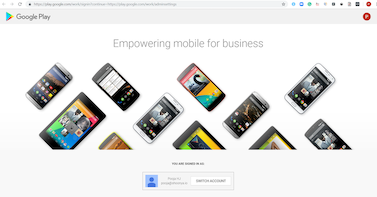
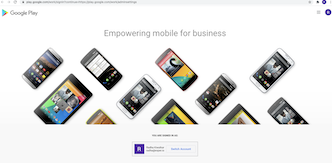
Changed images

diff --git a/docs/apps/unsubscribe.md b/docs/apps/unsubscribe.md
@@ -10,7 +10,7 @@ Step 1: Go to  [the Google Play Admin Settings page](https://play.google.com/wor
 Step 2: Select your account or give login credentials.
 
   
-![FAQ](./images/unsubscribe/image463.png)
+![FAQ](./images/unsubscribe/2-account.png)
 
 Step 3: Under Settings, you will see the Organization information section. Click on the vertical ellipsis on the right. You will see an option to “Delete Organization”. Clicking this will disassociate your email with the said organization.
 
